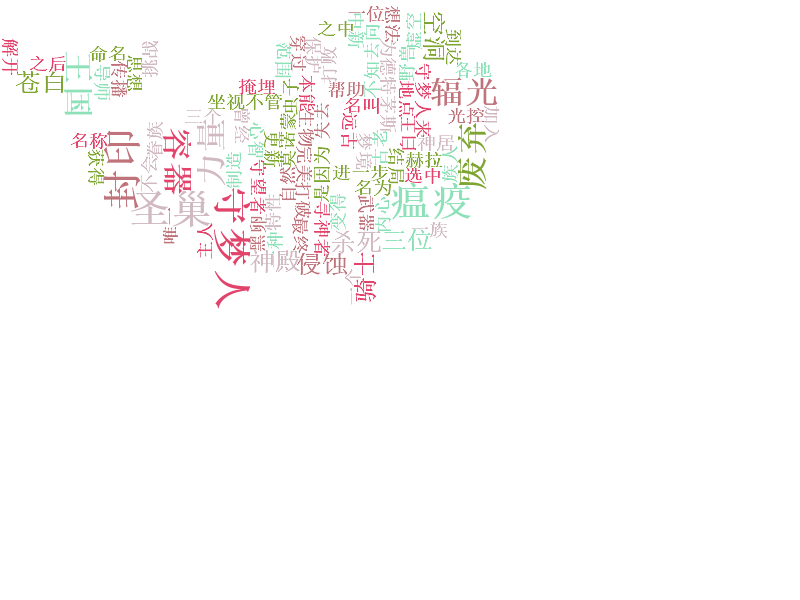
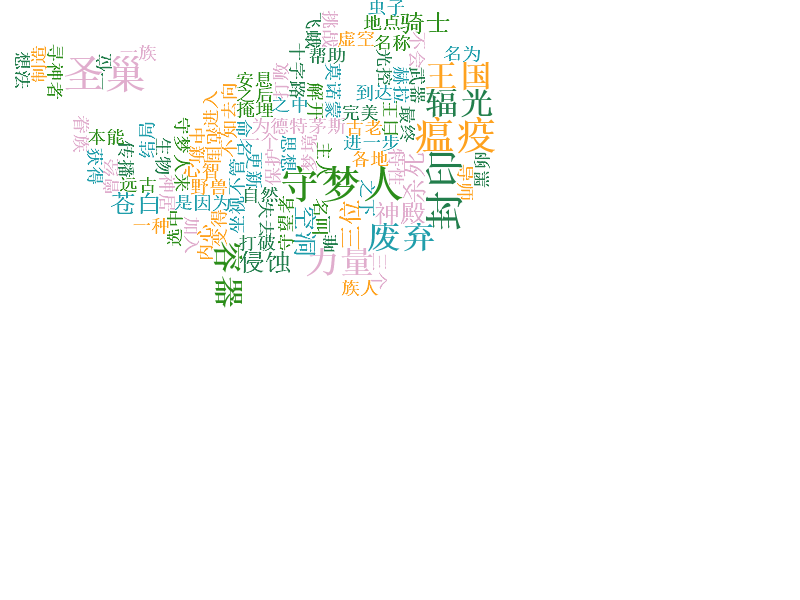
release branch 1.2.0

Changed region(s): [[0.0, 0.0, 0.625, 0.51]]

diff --git a/src/test/java/com/github/houbb/word/cloud/util/WordCloudHelperBgTest.java b/src/test/java/com/github/houbb/word/cloud/util/WordCloudHelperBgTest.java
@@ -11,6 +11,7 @@ import org.junit.Test;
 public class WordCloudHelperBgTest {
 
     @Test
+    @Ignore
     public void helloTest() {
         String text = "该作讲述的是一个名为德特茅斯的衰落小镇下掩埋着一个古老的废弃王国，名叫圣巢。这个王国被瘟疫所侵蚀而废弃，废弃的原因则是因为名为辐光的光之古神，她可以通过思想来传播瘟疫，被瘟疫侵蚀的虫子都会被本能所支配，失去心智。" +
                 "这个王国的主人——苍白之王，自然不会坐视不管，他在圣巢范围之下的深渊，利用另一种远古力量“虚空”可以压制光明的特性，制造了容器一族。其中一位被选中的容器用来封印瘟疫，并被命名为空洞骑士。为了封印的稳固，白王寻找了三个守梦人来进一步巩固封印，三位守梦人的名称分别为守望者 - 卢瑞恩，导师 - 莫诺蒙，野兽 - 赫拉。但之后苍白之王不知去向，不完美的容器的力量的也变得逐渐虚弱，最终被辐光控制。主角就要穿过圣巢的各地，在安息之地中，我们受到曾经辐光的信徒和眷族——飞蛾族唯一留下的族人的帮助，获得了和辐光力量同源的梦之武器——梦之钉。梦之钉可以读取生物内心的想法，并可以打破守梦人的保护，进入到其梦境之中杀死守梦人。杀死了三位守梦人并解开封印后，可选的结局有到达十字路里的黑卵神殿打败空洞骑士或去到在“寻神者”更新中新加入的地点“神居”并挑战圣巢万神殿。";

diff --git a/src/main/java/com/github/houbb/word/cloud/util/WordCloudHelper.java b/src/main/java/com/github/houbb/word/cloud/util/WordCloudHelper.java
@@ -4,7 +4,6 @@ import com.github.houbb.word.cloud.bs.WordCloudBs;
 import com.github.houbb.word.cloud.exception.WordCloudException;
 import com.kennycason.kumo.bg.PixelBoundryBackground;
 
-import java.io.FileInputStream;
 import java.io.IOException;
 
 /**
